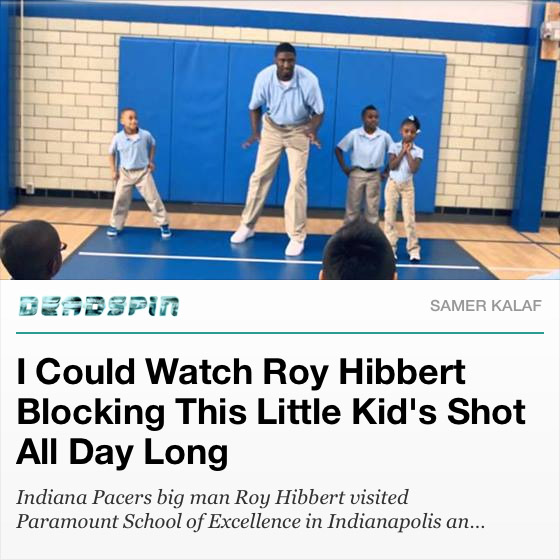
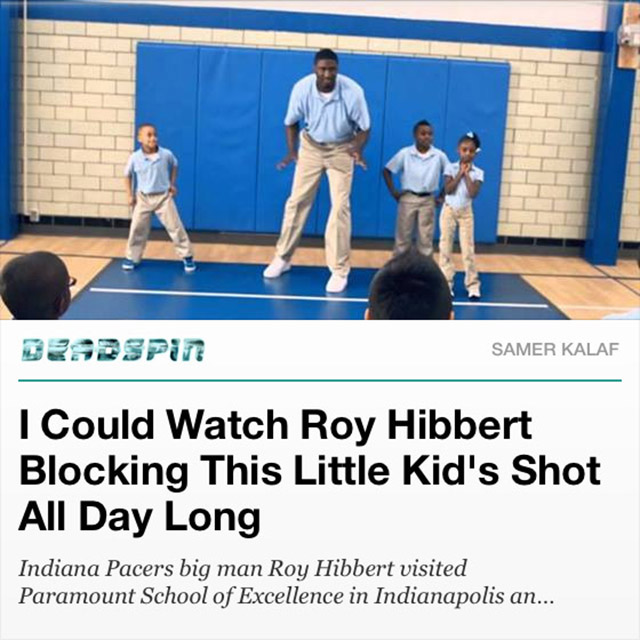
flipping the page!!!

diff --git a/js/app/StoryViews/ArticleViews/ArticleTopView.js b/js/app/StoryViews/ArticleViews/ArticleTopView.js
@@ -11,27 +11,10 @@ define(function(require, exports, module) {
     function ArticleTopView() {
         View.apply(this, arguments);
 
-        createCover.call(this);
         createContainer.call(this);
+        createCover.call(this);
         createBacking.call(this);
         createScrollview.call(this);
-    }
-
-    function createCover() {
-        this.coverLgImg = new Image();
-        this.coverLgImg.src = this.options.thumbCoverLg;
-        this.coverLgImg.width = 320;
-
-        this.coverLg = new Surface({
-            size: [undefined, window.innerHeight/2],
-            content: this.coverLgImg
-        });
-
-        this.thumbLgMod = new Modifier({
-            transform: FM.rotateZ(Math.PI)
-        });
-
-        this._add(this.thumbLgMod).link(this.cover);
     }
 
     function createContainer() {
@@ -41,17 +24,36 @@ define(function(require, exports, module) {
                 overflow: 'hidden'
             }
         });
+
+        this.container.pipe(this.eventOutput);
+    }
+
+    function createCover() {
+        this.coverLgImg = new Image();
+        this.coverLgImg.src = this.options.thumbLg;
+        this.coverLgImg.width = 320;
+
+        this.coverLg = new Surface({
+            size: [320, 320],
+            content: this.coverLgImg
+        });
+
+        this.thumbLgMod = new Modifier();
+
+        this.coverLg.pipe(this.eventOutput);
+
+        this._add(this.thumbLgMod).link(this.coverLg);
     }
 
     function createBacking() {
         var backing = new Surface({
-            size: [undefined, window.innerHeight/2],
+            size: [320, window.innerHeight/2],
             properties: {
                 backgroundColor: 'white'
             }
         });
 
-        this.container.add(backing);
+        // this.container.add(backing);
     }
 
     function createScrollview() {
@@ -76,7 +78,7 @@ define(function(require, exports, module) {
             origin: [0.5, 0]
         });
 
-        this.container.add(svMod).link(this.scrollview);
+        this.container.add(svMod).link(this.scrollview);    
 
         this.contMod = new Modifier();
         this._add(this.contMod).link(this.container);
@@ -87,8 +89,8 @@ define(function(require, exports, module) {
 
     ArticleTopView.DEFAULT_OPTIONS = {
         scale: null,
-        thumbCoverSm: null,
-        thumbCoverLg: null,
+        thumbSm: null,
+        thumbLg: null,
         content: null,
         svOpts: {
             itemSpacing: 0,
@@ -109,6 +111,7 @@ define(function(require, exports, module) {
 
     ArticleTopView.prototype.setAngle = function(angle) {
         this.contMod.setTransform(FM.aboutOrigin([0, window.innerHeight/2, 0], FM.rotateX(-angle)));
+        this.thumbLgMod.setTransform(FM.moveThen([0, window.innerHeight/2, 0], FM.aboutOrigin([0, window.innerHeight/2, 0], FM.rotate(-angle + Math.PI, 0, 0))));
     };
 
     module.exports = ArticleTopView;

diff --git a/js/app/StoryViews/ArticleViews/ArticleView.js b/js/app/StoryViews/ArticleViews/ArticleView.js
@@ -33,18 +33,18 @@ define(function(require, exports, module) {
         createArticleFull.call(this);
         createCover.call(this);
 
-        this.angle = new Transitionable(0);
-
         function createArticleTop() {
-            this.articleTop = new ArticleTopView({
-                content: this.options.content
-            });
+            this.articleTop = new ArticleTopView(this.options);
+
+            this.articleTop.pipe(this.eventOutput);
         }
 
         function createArticleBottom() {
             this.articleBottom = new ArticleBottomView({
                 content: this.options.content
             });
+
+            this.articleBottom.pipe(this.eventOutput);
         }
 
         function createArticleFull() {
@@ -94,29 +94,24 @@ define(function(require, exports, module) {
     };
 
     ArticleView.prototype.enableScroll = function() {
-        this.cover.pipe(this.scrollview1);
-        this.cover.pipe(this.scrollview2);
         this.enable = true;
     };
 
     ArticleView.prototype.disableScroll = function() {
-        this.cover.unpipe(this.scrollview1);
-        this.cover.unpipe(this.scrollview2);
         this.enable = false;
     };
 
     ArticleView.prototype.sequence = function() {
         console.log('sequence');
-        this.scrollview2.setVelocity(0);
-        this.scrollview2.setPosition(0);
-        // this.scrollview2.sequenceFrom(this.firstNode);
+    };
+
+    ArticleView.prototype.setAngle = function(angle) {
+        this.angle = angle;
     };
 
     ArticleView.prototype.render = function() {
-        var angle = this.angle.get();
-
-        this.articleTop.setAngle(angle);
-        this.articleBottom.setAngle(angle);
+        this.articleTop.setAngle(this.angle);
+        this.articleBottom.setAngle(this.angle);
         // var namePos = this.map(120, 85);
         // var textPos = this.map(140, 105);
         // var photoPos = this.map(-20, -68);
@@ -134,13 +129,13 @@ define(function(require, exports, module) {
 
         this.articleBottom.scrollview.setPosition(this.articleTop.scrollview.getPosition());
 
-        if(angle === Math.PI) {
+        if(this.angle === 0) {
             this.spec.push({
                 target: this.articleFull.render()
             });
         }
 
-        if(angle !== Math.PI) {
+        // if(this.angle !== 0) {
             this.spec.push({
                 target: this.articleTop.render()
             });
@@ -154,7 +149,7 @@ define(function(require, exports, module) {
                 transform: FM.translate(0, 0, 2),
                 target: this.cover.render()
             });
-        }
+        // }
 
         return this.spec;
     };

diff --git a/js/app/StoryViews/ArticleStoryView.js b/js/app/StoryViews/ArticleStoryView.js
@@ -176,7 +176,11 @@ define(function(require, exports, module) {
 
     ArticleStoryView.prototype.render = function() {
         var pos = this.pos.get();
-        console.log(pos);
+
+        var angle = Utils.map(pos, 0, -320, Math.PI-0.5, 0, true);
+        this.article.setAngle(angle);
+
+        // console.log(pos, angle);
 
         var namePos = this.map(120, 85);
         var textPos = this.map(140, 105);
@@ -188,7 +192,7 @@ define(function(require, exports, module) {
         this.nameView.fade(this.progress);
         this.textView.fade(this.progress);
 
-        this.top = this.article.angle.get() === 0 ? true: false;
+        this.top = angle === 0;
 
         this.spec = [];
         this.spec.push(this.card.render());
@@ -213,7 +217,7 @@ define(function(require, exports, module) {
             });
         }
 
-        var articleScale = 1;
+        var articleScale = 0.875;
 
         this.spec.push({
             origin: [0.5, 0],

diff --git a/js/app/StoryViews/ArticleViews/ArticleBottomView.js b/js/app/StoryViews/ArticleViews/ArticleBottomView.js
@@ -46,6 +46,8 @@ define(function(require, exports, module) {
             return [320, 1068]
         };
 
+        this.content.pipe(this.eventOutput);
+
         this.scrollview.sequenceFrom([this.content]);
 
         this.svMod = new Modifier({
